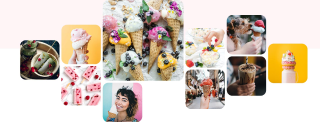
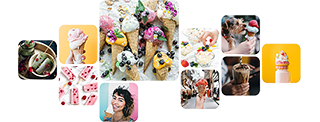
Pictures changed to transparent ones

diff --git a/src/sass/_gallery.scss b/src/sass/_gallery.scss
@@ -5,7 +5,7 @@
   padding-bottom: 80px;
 
   @media screen and (min-width: 480px) {
-    max-width: 480px;
+    max-width: 100%;
   }
   @media screen and (min-width: 768px) {
     max-width: 768px;
@@ -27,6 +27,9 @@
 .gallery-gradient {
   background-image: linear-gradient(to bottom, #fff5f6 48.49%, #ffffff 48.49%);
 
+  @media screen and (min-width: 480px) {
+    background-image: linear-gradient(to bottom, #fff5f6 47.51%, #ffffff 47.51%);
+  }
   @media screen and (min-width: 768px) {
     background-image: linear-gradient(to bottom, #fff5f6 46.85%, #ffffff 46.85%);
   }
@@ -37,7 +40,7 @@
 
 .gallery img {
   display: block;
-  max-width: 100%;
+  max-width: 480px;
 
   @media screen and (min-width: 480px), (max-width: 767px) {
     max-width: 480px;

diff --git a/src/partials/gallery.html b/src/partials/gallery.html
@@ -9,13 +9,13 @@
         />
 
         <source
-          media="(min-width: 768px)"
+          media="(min-width: 481px)"
           srcset="./images/gallery-tablet-x1.png 1x, ./images/gallery-tablet-x2.png 2x"
           type="image/png"
         />
 
         <source
-          media="(max-width: 767px)"
+          media="(max-width: 480px)"
           srcset="./images/gallery-mobile-x1.png 1x, ./images/gallery-mobile-x2.png 2x"
           type="image/png"
         />
